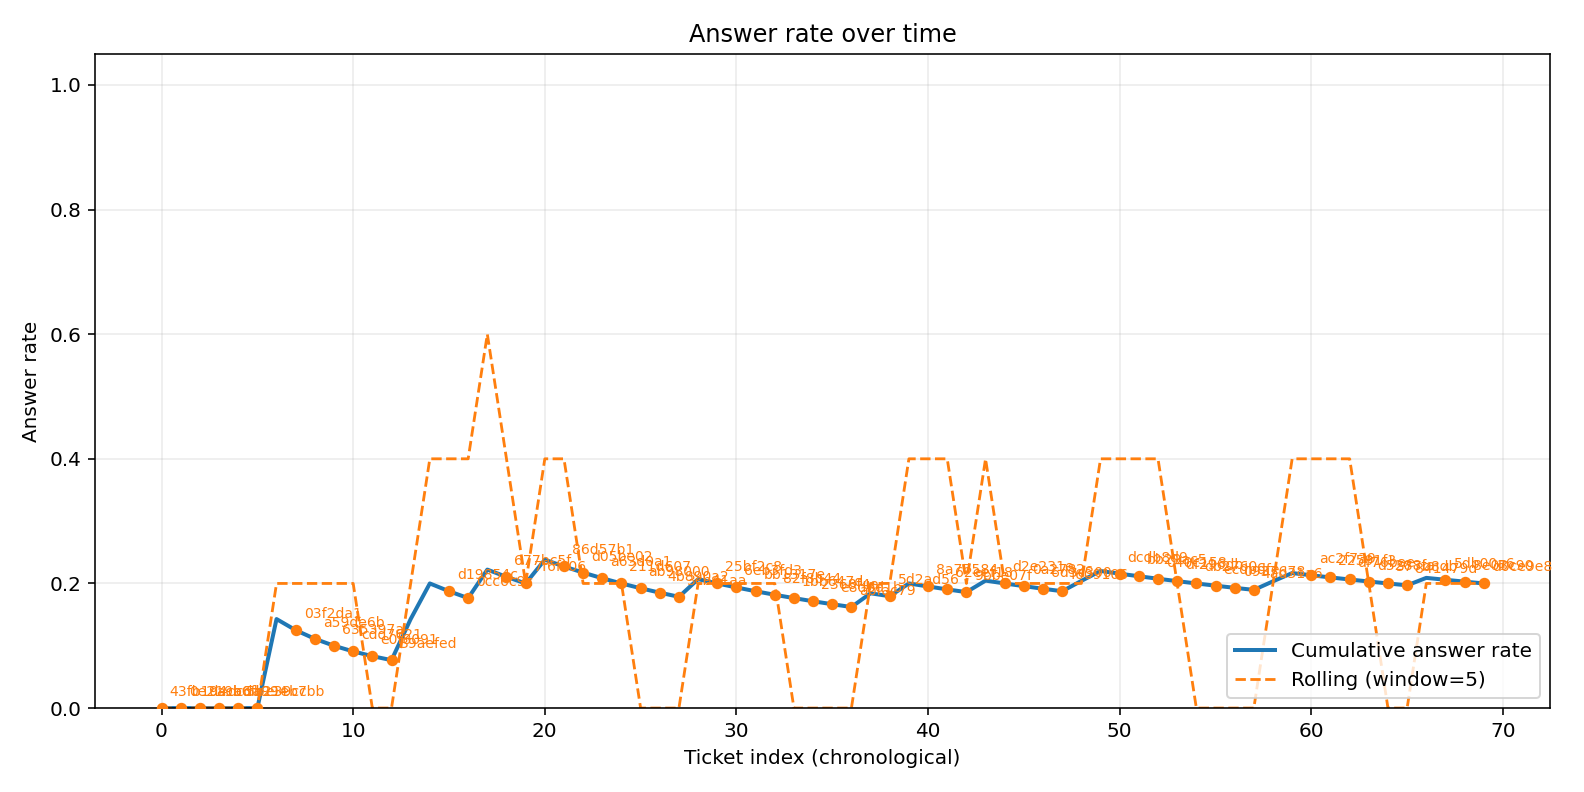
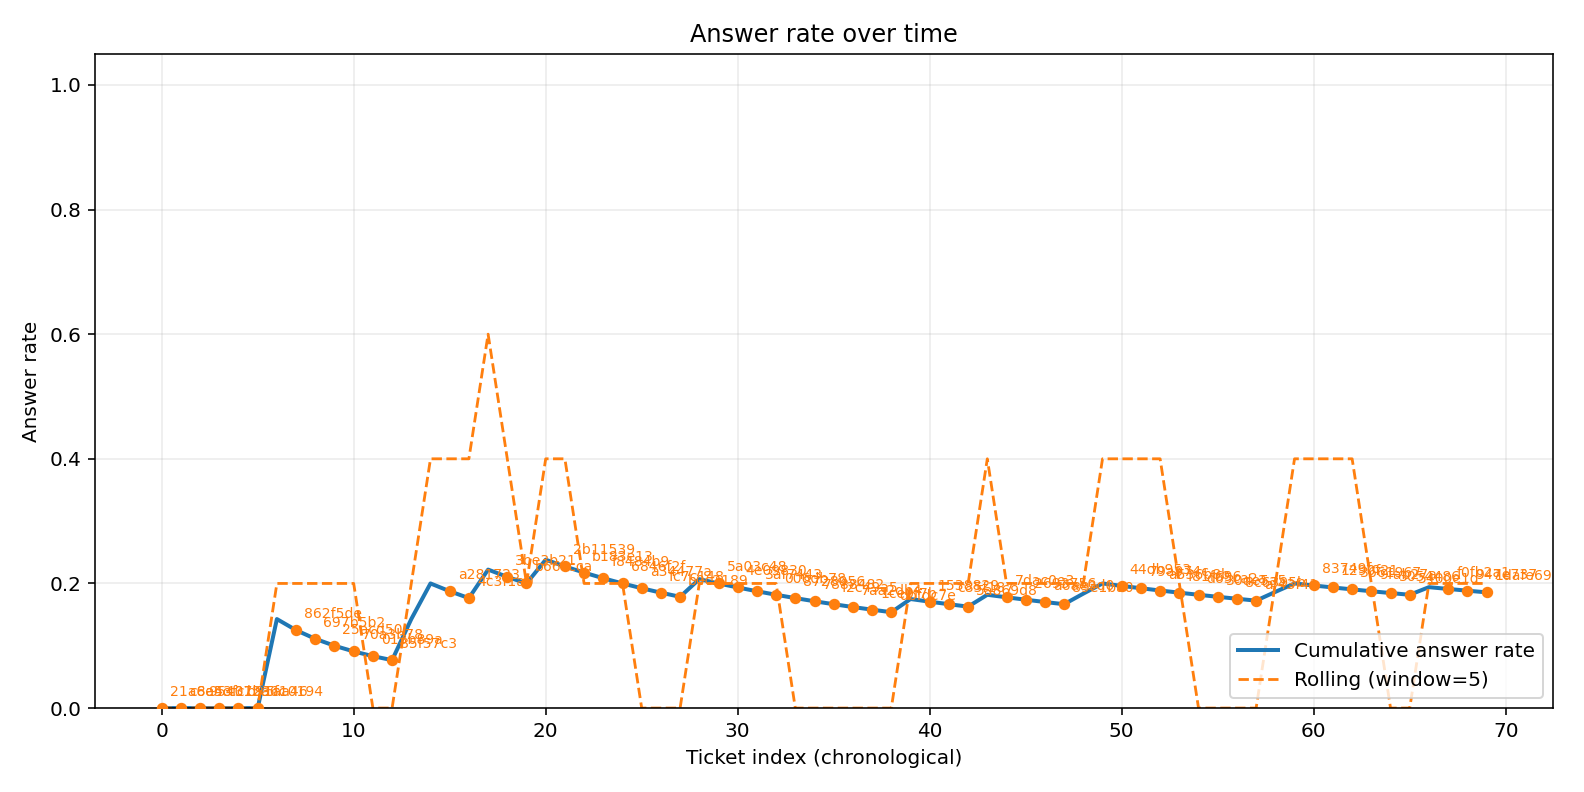
feat: evaluation harness live run + bug fixes
- Fix kb_snapshot.py directory name (faq not faqs)
- Handle identical-content git commits in writer.py
- Switch judge to openrouter/openai-gpt-5.4
- Artefacts: curve.png, curve_data.csv, quality_curve.png,
  quality_scores.csv, ground_truth_report.md

diff --git a/eval/kb_snapshot.py b/eval/kb_snapshot.py
@@ -1,39 +1,39 @@
-"""Snapshot kb/ before a replay; clear kb/faqs/; restore after."""
+"""Snapshot kb/ before a replay; clear kb/faq/; restore after."""
 import shutil
 from pathlib import Path
 
 
 class KBSnapshot:
-    """In-memory + on-disk snapshot of kb/faqs/.
+    """In-memory + on-disk snapshot of kb/faq/.
 
-    The replay harness starts with an empty faqs/ directory and fabricates new
+    The replay harness starts with an empty faq/ directory and fabricates new
     entries as it processes tickets. After the run, restore() puts the original
     files back so the working tree is clean.
     """
 
     def __init__(self, kb_root: Path) -> None:
         self.kb_root = kb_root
-        self.faqs_dir = kb_root / "faqs"
+        self.faq_dir = kb_root / "faq"
         self._backup: dict[str, str] = {}
 
     def start_replay_state(self) -> None:
         self._backup = {}
-        if self.faqs_dir.exists():
-            for path in self.faqs_dir.glob("*.md"):
+        if self.faq_dir.exists():
+            for path in self.faq_dir.glob("*.md"):
                 self._backup[path.name] = path.read_text()
                 path.unlink()
         else:
-            self.faqs_dir.mkdir(parents=True)
+            self.faq_dir.mkdir(parents=True)
 
     def restore(self) -> None:
-        if not self.faqs_dir.exists():
-            self.faqs_dir.mkdir(parents=True)
+        if not self.faq_dir.exists():
+            self.faq_dir.mkdir(parents=True)
         # Delete anything the harness wrote
-        for path in self.faqs_dir.glob("*.md"):
+        for path in self.faq_dir.glob("*.md"):
             path.unlink()
         # Restore originals
         for name, body in self._backup.items():
-            (self.faqs_dir / name).write_text(body)
+            (self.faq_dir / name).write_text(body)
 
 
 def copy_seed_kb(src: Path, dest: Path) -> None:

diff --git a/intel_engine/kb/writer.py b/intel_engine/kb/writer.py
@@ -59,6 +59,24 @@ def write_and_commit_entry(
         check=True,
         capture_output=True,
     )
+
+    # If the file was recreated with identical content (e.g. replay snapshot),
+    # git add stages nothing. Skip the commit and return current HEAD.
+    diff_index = subprocess.run(
+        ["git", "diff", "--cached", "--quiet"],
+        cwd=repo_root,
+        capture_output=True,
+    )
+    if diff_index.returncode == 0:
+        sha = subprocess.run(
+            ["git", "rev-parse", "--short", "HEAD"],
+            cwd=repo_root,
+            check=True,
+            capture_output=True,
+            text=True,
+        ).stdout.strip()
+        return sha
+
     subprocess.run(
         ["git", "-c", "commit.gpgsign=false", "commit", "-m", commit_msg],
         cwd=repo_root,

diff --git a/eval/judge.py b/eval/judge.py
@@ -33,7 +33,7 @@ async def judge_draft(
         f"=== CITED KB EXCERPTS ===\n{excerpts_block}"
     )
 
-    client = LLMClient(provider=LLMProvider.kimi)
+    client = LLMClient(provider=LLMProvider.openrouter)
     raw = await client.complete_json(system=system, user=user)
 
     return RubricScore(

diff --git a/eval/ground_truth_report.md b/eval/ground_truth_report.md
@@ -6,9 +6,9 @@ Tickets evaluated: **70**
 
 | Metric | Value |
 |---|---|
-| Theme classification accuracy | 40.00% |
-| Persona classification accuracy | 20.00% |
-| Gap detection — precision | 33.93% |
+| Theme classification accuracy | 44.29% |
+| Persona classification accuracy | 27.14% |
+| Gap detection — precision | 33.33% |
 | Gap detection — recall | 95.00% |
-| Gap detection — F1 | 50.00% |
-| Escalation accuracy | 51.43% |
+| Gap detection — F1 | 49.35% |
+| Escalation accuracy | 50.00% |
